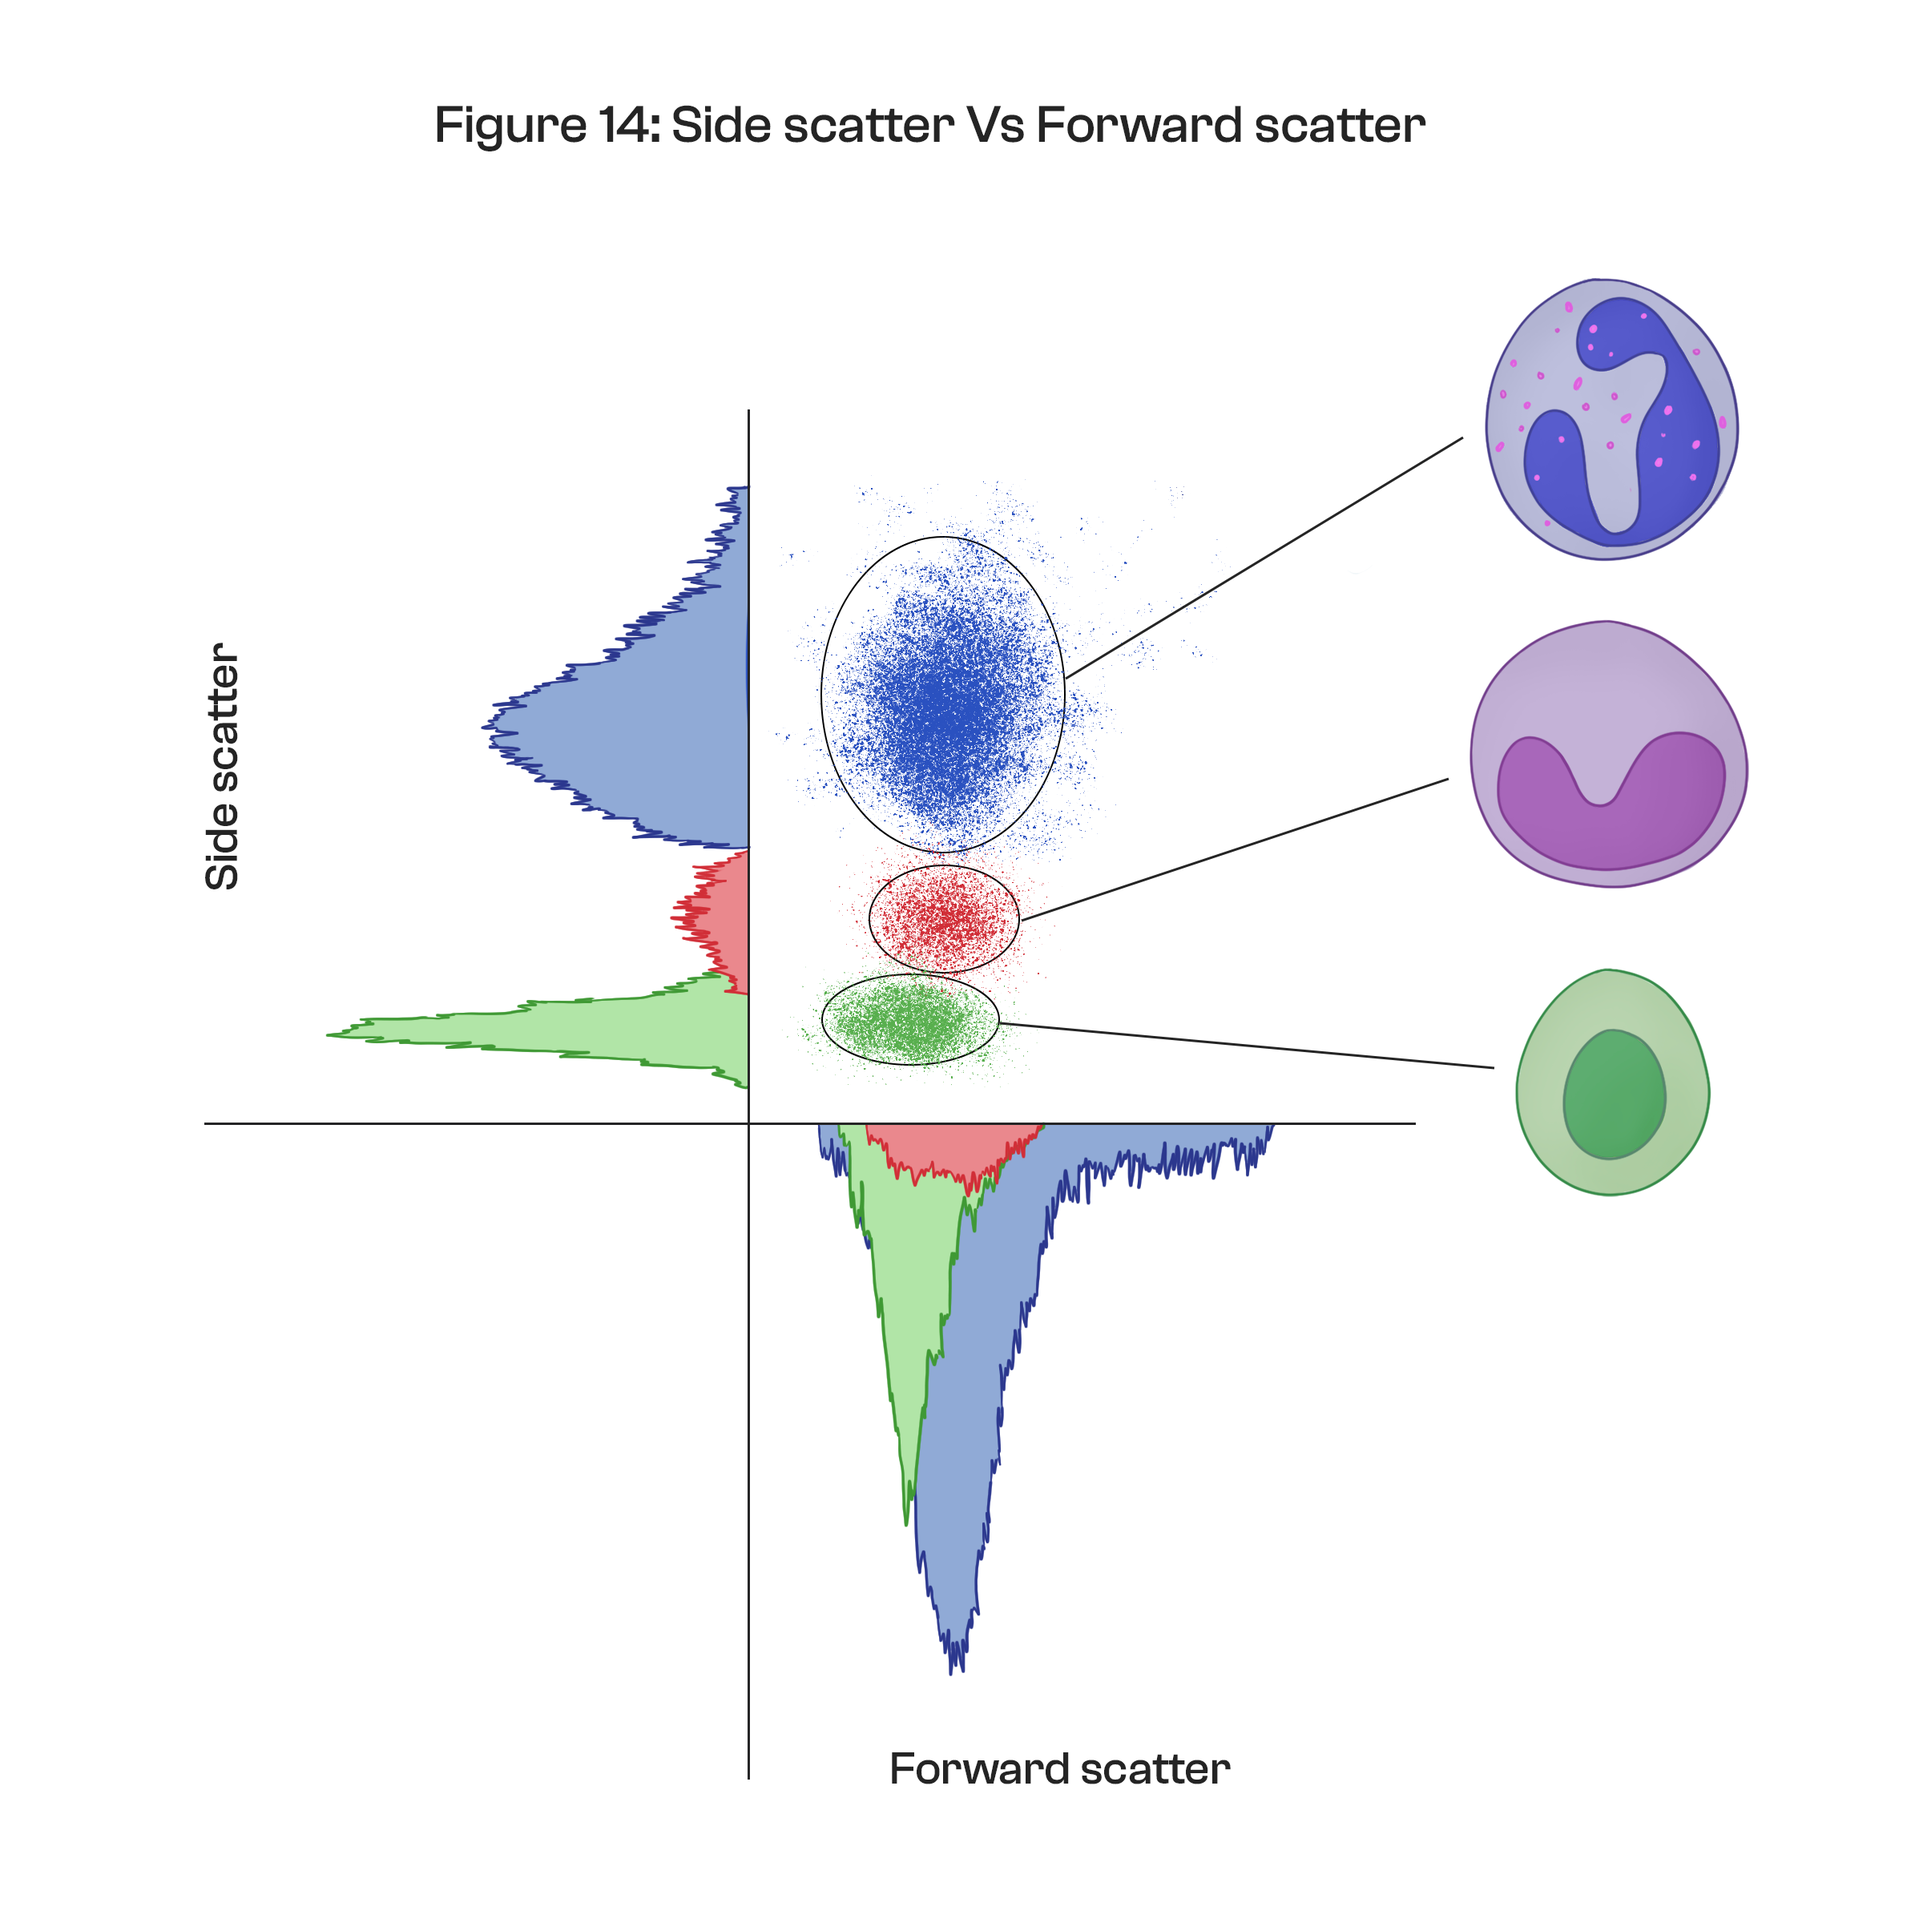
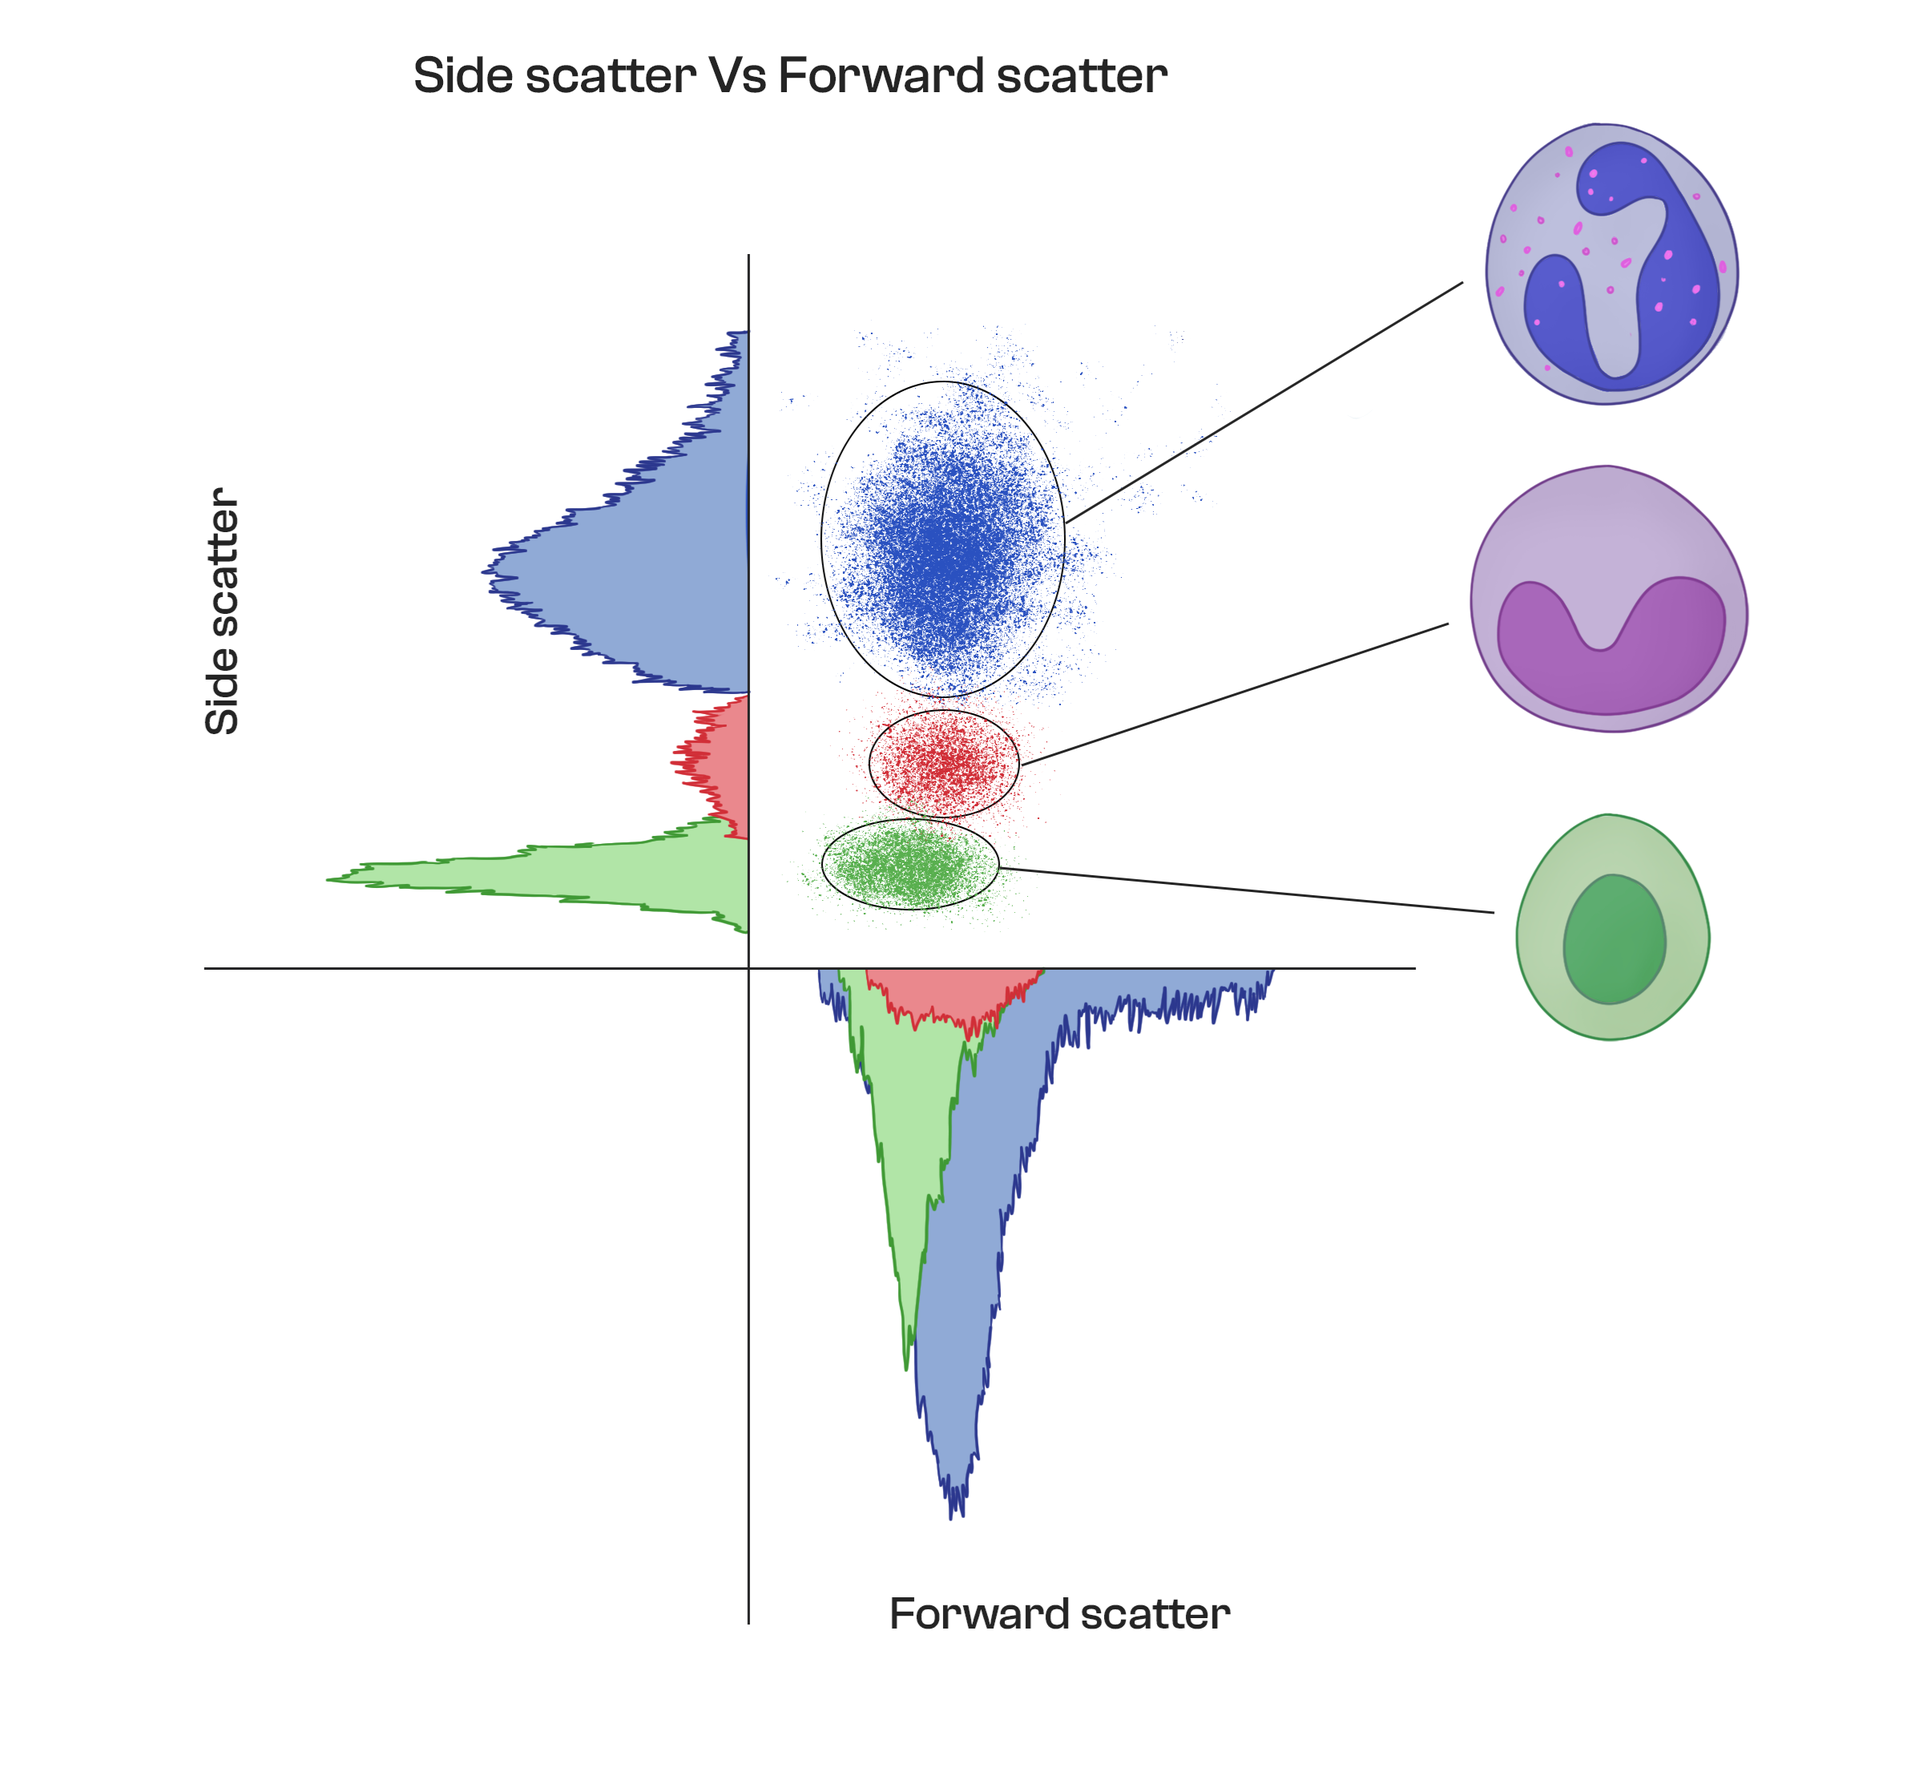
aesthetic changes

diff --git a/experiment/theory.md b/experiment/theory.md
@@ -38,7 +38,7 @@ Optical system- This system comprises laser and lenses that help in focusing the
 Signal detection and processing system- This system converts the light signal into voltages that are then further recorded
 
 
-<br><div style="text-align: center;"><img src="images/img2.png" width="550" height="340"></div>
+<br><div style="text-align: center;"><img src="images/img2.png" width="400" height="400"></div>
 <br><div style="text-align: center;"><img src="images/7.png" width="550" height="300"></div>
 <br><div style="text-align: center;"><img src="images/8.png" width="550" height="300"></div>
 <br><div style="text-align: center;"><img src="images/9.png" width="550" height="300"></div>
